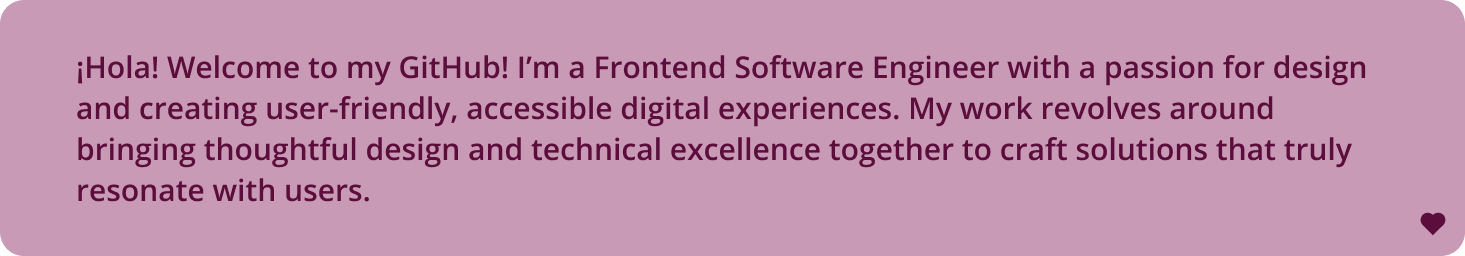
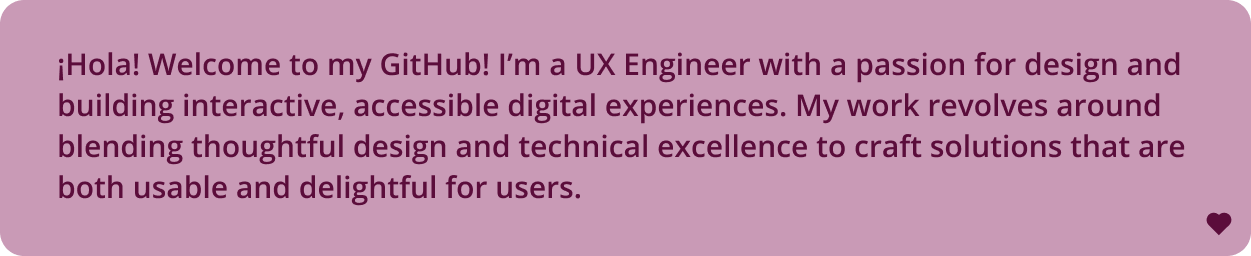
change copy

diff --git a/README.md b/README.md
@@ -4,11 +4,12 @@
 
 ## 💕 About Me
 
-Currently based in London, I’m a Frontend Developer specializing in creating responsive, accessible, and engaging web solutions using technologies like React, TypeScript, and Next.js. My journey in tech has been complemented by a deep interest in product design, which helps me build not just functional but delightful experiences.
+Currently based in London, I’m a UX Engineer specializing in building interactive, accessible, and user-friendly digital experiences using technologies like React, TypeScript, and Next.js. My background in frontend development and love for design thinking allow me to craft solutions that are both functional and delightful.
 
-I’ve worked on exciting projects, including developing a scheduling module for an advertising platform and collaborating with design agencies to create beautiful, functional web designs.
+I’ve worked on exciting projects, from developing a scheduling module for an advertising platform to collaborating with design teams to bring beautiful, user-focused interfaces to life.
 
-When I’m not coding, you’ll find me exploring coffee shops, reading, or writing about my adventures ☕📚 If I'm not traveling, of course ✈💕
+When I’m not designing or coding, you’ll probably find me learning languages, optimizing workflows, or writing about my adventures in my newsletter. ☕📚✨
+And if I’m not doing that... I’m probably exploring new places! ✈💕
 
 ## 👩🏻💻 Portfolio
 
@@ -32,9 +33,11 @@ Here are some of my favorite projects:
 
 - **Languages:** JavaScript, TypeScript, HTML, CSS
 - **Frameworks & Libraries:** React, Next.js, TailwindCSS, Motion (Framer Motion)
-- **Other Tools:** Figma, Git, React Testing Library
-- **Specialized Areas:** Accessibility (WCAG Compliance), Responsive Design
-
-## ✨ Fun Fact
-
-🎨 I started my tech journey as a web designer before transitioning into frontend development.
+- **Design Tools & Skills:**
+  - **Figma:** Wireframes, Prototypes, High-Fidelity Mockups
+  - **UI Design:** Creating UI components and reusable patterns
+  - **Design Systems:** Building scalable systems (personal projects)
+- **Specialized Areas:**
+  - **Accessibility (WCAG Compliance):** ARIA roles, Keyboard Navigation
+  - **Responsive Design:** Mobile-first and cross-browser compatibility
+- **Other Tools:** Git, React Testing Library
